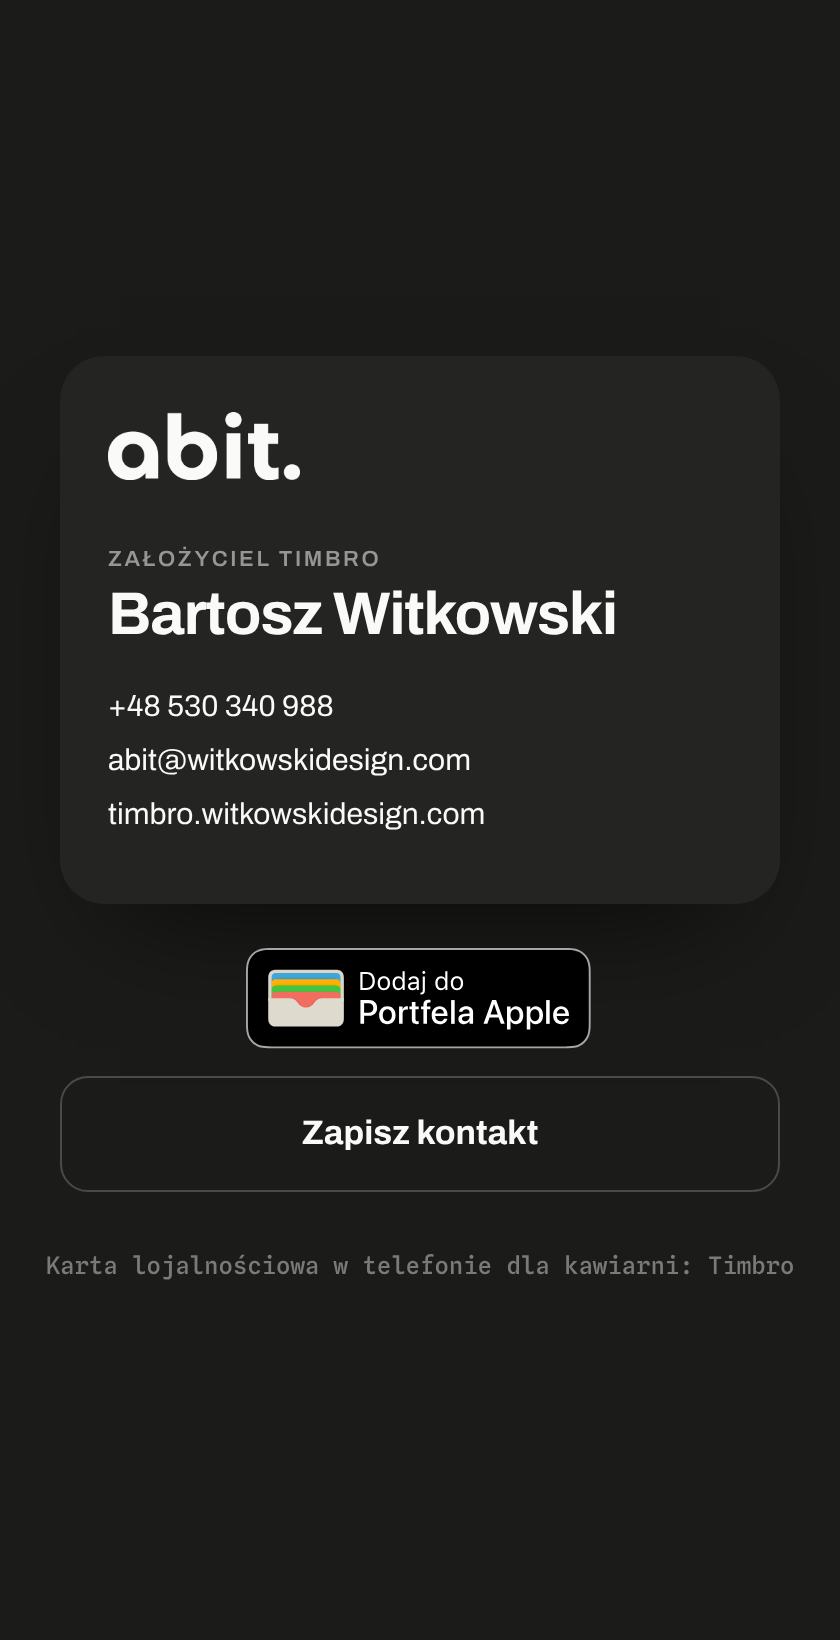
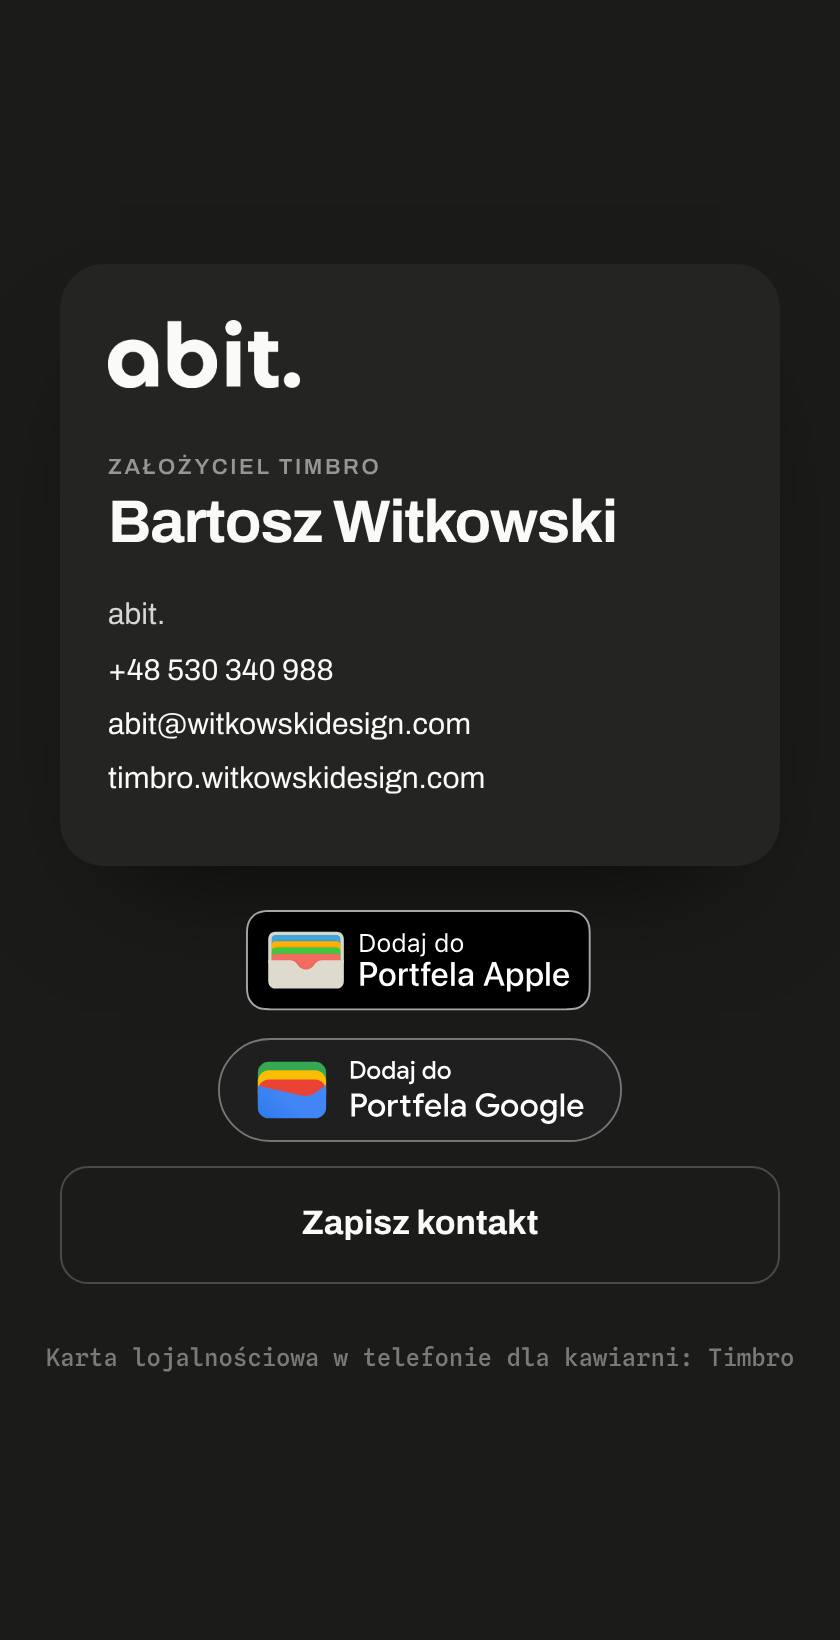
Business card: Google Wallet version (generic pass) and button on /wizytowka/
Claude-Session: https://claude.ai/code/session_01P7jvwC9jL6ipCqqXJiCoo9

diff --git a/wallet/bizcard.js b/wallet/bizcard.js
@@ -1,10 +1,12 @@
-// Bartek's business card as an Apple Wallet pass ("generic" style): GET /bizcard.pkpass
+// Bartosz's business card as an Apple Wallet pass ("generic" style): GET /bizcard.pkpass,
+// a Google Wallet save link: GET /bizcard-google
 // and a contact file: GET /bizcard.vcf. The page /wizytowka/ on the website links to both.
 // Change the details here; the card in people's Wallets updates next time it is opened anew.
 import fs from 'node:fs';
 import path from 'node:path';
 import { fileURLToPath } from 'node:url';
 import { PKPass } from 'passkit-generator';
+import jwt from 'jsonwebtoken';
 import { settings } from './settings.js';
 
 export const ME = {
@@ -64,4 +66,39 @@ export async function buildBizcard() {
   for (const n of ['icon.png', 'icon@2x.png', 'icon@3x.png', 'logo.png', 'logo@2x.png', 'logo@3x.png']) files[n] = file(n);
   const { signerCert, signerKey, signerKeyPassphrase, wwdr } = settings.apple;
   return new PKPass(files, { signerCert, signerKey, signerKeyPassphrase, wwdr }).getAsBuffer();
+}
+
+// Google Wallet: a "generic" pass in a signed save link, nothing is created in advance.
+// The logo and banner are public files of the website (wizytowka/).
+const SITE = 'https://timbro.witkowskidesign.com/wizytowka';
+export function bizcardGoogleUrl(origin) {
+  const { issuerId, serviceAccount } = settings.google;
+  const id = `${issuerId}.bizcard_bartosz_witkowski`;
+  const img = (n, d) => ({ sourceUri: { uri: `${SITE}/${n}` }, contentDescription: { defaultValue: { language: 'pl', value: d } } });
+  const genericObject = {
+    id, classId: `${issuerId}.bizcard`, state: 'ACTIVE',
+    cardTitle: { defaultValue: { language: 'pl', value: ME.company } },
+    subheader: { defaultValue: { language: 'pl', value: ME.role } },
+    header: { defaultValue: { language: 'pl', value: ME.name } },
+    hexBackgroundColor: '#1B1B19',
+    logo: img('abit-icon.png', ME.company),
+    heroImage: img('abit-hero.png', ME.company),
+    textModulesData: [
+      { id: 'phone', header: 'Telefon', body: ME.phone },
+      { id: 'email', header: 'E-mail', body: ME.email },
+      { id: 'ig', header: 'Instagram', body: ME.instagram },
+      { id: 'timbro', header: 'Timbro', body: 'Karty lojalnościowe w Apple i Google Wallet dla kawiarni, piekarni i sklepów. Bez aplikacji i bez papieru.' }
+    ],
+    linksModuleData: { uris: [
+      { id: 'tel', uri: `tel:${ME.phone.replace(/\s/g, '')}`, description: 'Zadzwoń' },
+      { id: 'mail', uri: `mailto:${ME.email}`, description: 'Napisz e-mail' },
+      { id: 'web', uri: ME.web, description: 'timbro.witkowskidesign.com' }
+    ] },
+    barcode: { type: 'QR_CODE', value: `${settings.publicUrl}/bizcard.vcf`, alternateText: 'Zeskanuj, aby zapisać kontakt' }
+  };
+  const token = jwt.sign({
+    iss: serviceAccount.client_email, aud: 'google', typ: 'savetowallet', origins: origin ? [origin] : [],
+    payload: { genericClasses: [{ id: `${issuerId}.bizcard` }], genericObjects: [genericObject] }
+  }, serviceAccount.private_key, { algorithm: 'RS256' });
+  return `https://pay.google.com/gp/v/save/${token}`;
 }

diff --git a/wallet/server.js b/wallet/server.js
@@ -8,7 +8,7 @@
 //   POST /news  {card}, Authorization: Bearer <owner's login>            → the café's message to all customers
 //   GET  /health
 import http from 'node:http';
-import { buildBizcard, vcard } from './bizcard.js';
+import { buildBizcard, vcard, bizcardGoogleUrl } from './bizcard.js';
 import { settings, appleReady, googleReady, googleProblem } from './settings.js';
 import { readPassRequest } from './input.js';
 import { buildApplePass } from './apple.js';
@@ -172,6 +172,10 @@ export const server = http.createServer(async (req, res) => {
     if (req.method === 'GET' && url.pathname === '/bizcard.pkpass') {
       if (!appleReady()) return send(res, 503, 'Apple Wallet is not set up yet.');
       return send(res, 200, await buildBizcard(), { 'content-type': 'application/vnd.apple.pkpass', 'content-disposition': 'attachment; filename="bartosz-witkowski.pkpass"' });
+    }
+    if (req.method === 'GET' && url.pathname === '/bizcard-google') {
+      if (!googleReady()) return send(res, 503, 'Google Wallet is not set up yet.');
+      return send(res, 303, '', { location: bizcardGoogleUrl('https://timbro.witkowskidesign.com') });
     }
     if (req.method === 'GET' && url.pathname === '/bizcard.vcf') {
       return send(res, 200, vcard(), { 'content-type': 'text/vcard; charset=utf-8', 'content-disposition': 'attachment; filename="bartosz-witkowski.vcf"' });

diff --git a/wizytowka/index.html b/wizytowka/index.html
@@ -36,6 +36,7 @@ main{min-height:100vh;display:flex;flex-direction:column;align-items:center;just
   </div>
   <div class="btns">
     <a id="apple" href="#"><img src="../assets/wallet/apple-wallet-pl.svg" alt="Dodaj do Portfela Apple"></a>
+    <a id="google" href="#"><img src="../assets/wallet/google-wallet-pl.svg" alt="Dodaj do Portfela Google"></a>
     <a class="vcf" id="vcf" href="#">Zapisz kontakt</a>
   </div>
   <p class="foot">Karta lojalnościowa w telefonie dla kawiarni: Timbro</p>
@@ -44,6 +45,7 @@ main{min-height:100vh;display:flex;flex-direction:column;align-items:center;just
 <script>
   const api = CONFIG.walletApi.replace(/\/$/, '');
   document.getElementById('apple').href = api + '/bizcard.pkpass';
+  document.getElementById('google').href = api + '/bizcard-google';
   document.getElementById('vcf').href = api + '/bizcard.vcf';
 </script>
 </body>
